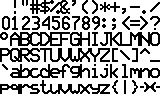
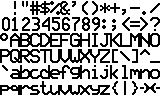
More telemetry display code completed.
Adjusted font_dblsize.xmb down one pixel, so that the bottom of double-size
characters align with the bottom of normal size characters when displayed
alongside eachother. This also fixes the eye-sore missing top row when
double-size characters are printed INVERS.

Fixed lcd_lastPos (last X position drawn to by fount output etc) so it worked
properly throughout, ... which led to getting utterly frustrated with somewhat
messy and annoyingly buggy lcd_outdezNAtt functioni -- for the LAST time. 

So, I re-wrote the whole thing from scratch. The resulting code is a fair bit
smaller and more efficient, at the cost of a small (non-static) 5 byte character 
buffer.

When writing the output for the telemtry GPS values, I needed to be able to pad
more than one 0 both to the right and to the left of a printed number. So
*PLEASE NOTE* that I've removed 'LEADING0' from the mode flags register and set
it up, along with the new TRAILING0 flag to be logcially ORed (or added) to
'len', instead. 

Both LEADING0 and TRAILING0 now pad all the way out to 'len' characters. For
this work, len now has a functional maximum input value of 0x3f (63), which is
much wider than the LCD display in characters units. 

I've also re-instated the SIGN and PREC3 flags (while keeping within 8-bits total)
This was to allow 3 decimal places (yes -- I want that!) and to allow unsigned
integers up to 65535 to be handled.

Finally, the default RIGHT alignment alligns ON THE DECIMAL POINT -- as it was
[…]

diff --git a/branches/frsky/src/lcd.cpp b/branches/frsky/src/lcd.cpp
@@ -62,10 +62,9 @@ void lcd_putcAtt(uint8_t x, uint8_t y, const char c, uint8_t mode)
   if(mode & DBLSIZE)
   {
     /* each letter consists of ten top bytes followed by
-     * five bottom by ten bottom bytes (20 bytes per 
-     * char) */
+     * by ten bottom bytes (20 bytes per * char) */
     q = &font_10x16_x20_x7f[(c-0x20)*10 + ((c-0x20)/16)*160];
-    for(char i=5; i>=0; i--){
+    for(char i=5; i>=0; i--) {
       /*top byte*/
       uint8_t b1 = i>0 ? pgm_read_byte(q) : 0;
       /*bottom byte*/
@@ -74,7 +73,7 @@ void lcd_putcAtt(uint8_t x, uint8_t y, const char c, uint8_t mode)
       uint8_t b2 = i>0 ? pgm_read_byte(++q) : 0;
       /*bottom byte*/
       uint8_t b4 = i>0 ? pgm_read_byte(160+q) : 0;
-      q++;
+
       if(inv) {
         b1=~b1;
         b2=~b2;
@@ -89,6 +88,7 @@ void lcd_putcAtt(uint8_t x, uint8_t y, const char c, uint8_t mode)
         p[DISPLAY_W+1] = b4; 
         p+=2;
       }   
+      q++;
     }   
 
     lcd_lastPos = x + 2*FW;
@@ -235,6 +235,12 @@ void lcd_outdezNAtt(uint8_t x, uint8_t y, uint16_t val, uint8_t mode, uint8_t le
 
   if (neg) lcd_putcAtt(lcd_lastPos++, y, '-', mode); // apply sign
 
+  if (prec && !lastDigit) 
+  { 
+    lastDigit++;
+    digits[lastDigit]='0';
+  }
+
   if (len & LEADING0)
     for (int8_t i=lastDigit+1; i < maxLen; i++)
       lcd_putcAtt(lcd_lastPos-1, y, '0', mode);
@@ -242,17 +248,34 @@ void lcd_outdezNAtt(uint8_t x, uint8_t y, uint16_t val, uint8_t mode, uint8_t le
   for (int8_t i=lastDigit; i >= 0; i--)
   {
     lcd_putcAtt(lcd_lastPos-1, y, digits[i], mode);
+
+    // draw decimal point
     if (prec && i==prec) 
     {
       if (mode & DBLSIZE)
       {
-        lcd_hline(lcd_lastPos, y+2*FH-4, 2, mode);
-        lcd_hline(lcd_lastPos, y+2*FH-3, 2, mode);
+        if (mode & INVERS)
+        {
+          lcd_vline(lcd_lastPos, y, 2*FH-3);
+          lcd_vline(lcd_lastPos+1, y, 2*FH-3);
+          lcd_hline(lcd_lastPos, y+2*FH-1, 2);
+        }
+        else
+        {
+          lcd_hline(lcd_lastPos, y+2*FH-4, 2);
+          lcd_hline(lcd_lastPos, y+2*FH-3, 2);
+        }
         lcd_lastPos += 3;
       }
       else
       {
-        lcd_plot(lcd_lastPos, y+FH-2, mode);
+        if (mode & INVERS)
+        {
+          lcd_vline(lcd_lastPos, y, FH-2);
+          lcd_plot(lcd_lastPos, y+FH-1);
+        } 
+        else
+          lcd_plot(lcd_lastPos, y+FH-2);
         lcd_lastPos += 2;
       }
     }
@@ -492,7 +515,7 @@ void putsVolts(uint8_t x, uint8_t y, uint16_t volts, uint8_t att, bool noUnit)
 
 void putsVBat(uint8_t x,uint8_t y,uint8_t att, bool noUnit)
 {
-  putsVolts(x, y, g_vbat100mV, att, noUnit);
+  putsVolts(x, y, g_vbat100mV, att|INVERS, noUnit);
 }
 
 void putsChnRaw(uint8_t x, uint8_t y, uint8_t idx, uint8_t att)

diff --git a/branches/frsky/util/xbm2lbm.rb b/branches/frsky/util/xbm2lbm.rb
@@ -12,7 +12,7 @@ def main(xbm)
     rows,cols = $1.to_i,$2.to_i
   end
 
-  File.read(xbm)=~/_width (\d+).*_height (\d+).*\{(.*)\}/m
+  File.read(xbm)=~/_width\s+(\d+).*_height\s+(\d+).*\{(.*)\}/m
   w,h,bits=$1.to_i,$2.to_i,$3
   bits=eval "["+bits+"]"
   #pp w,h,bits
